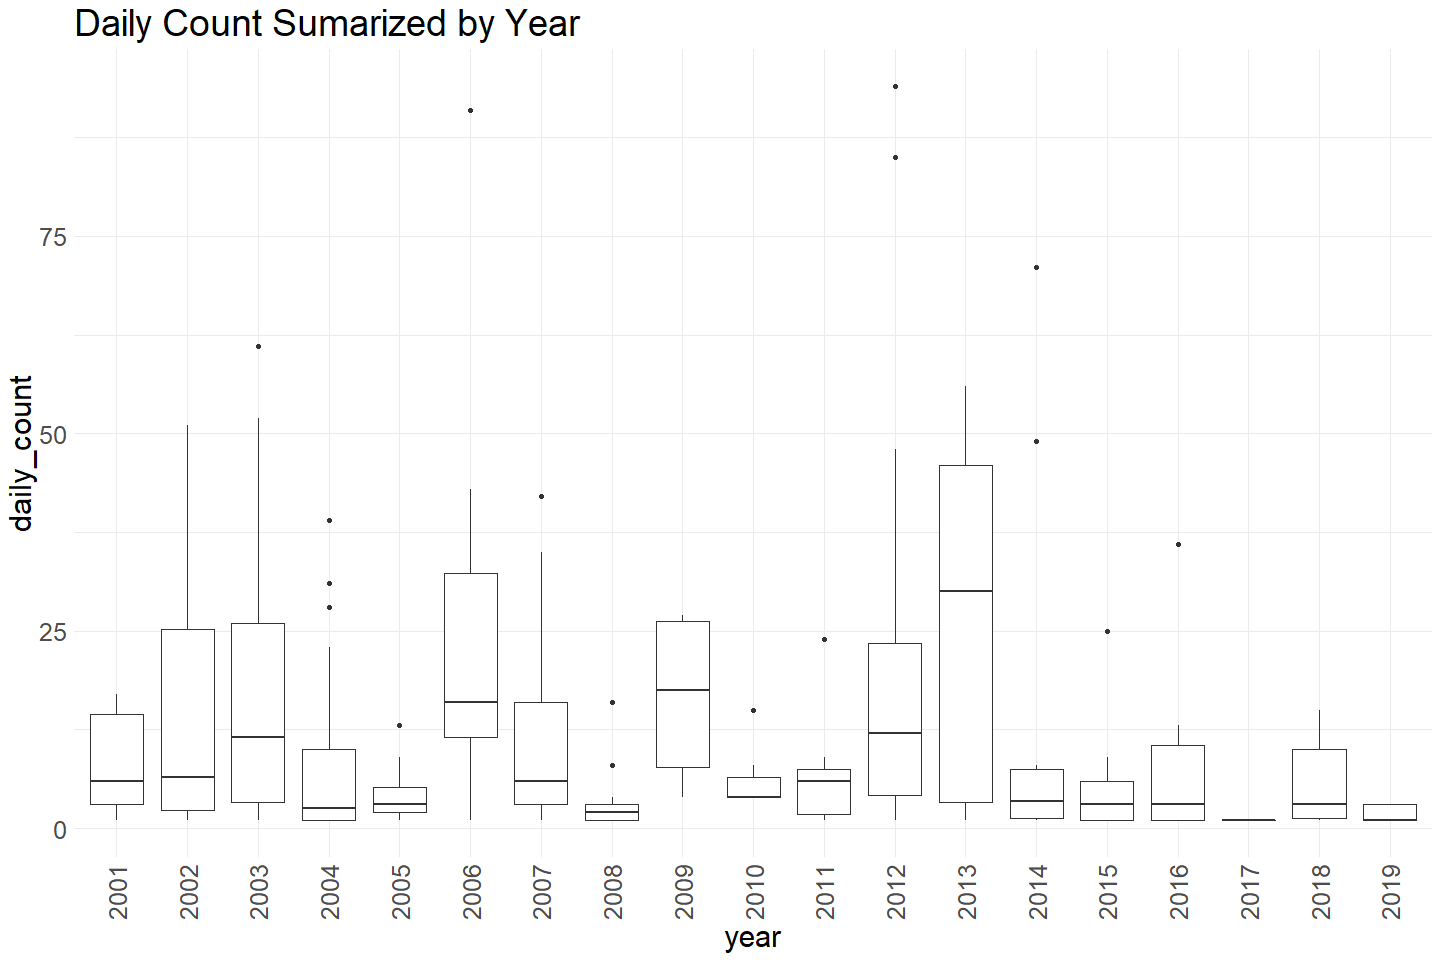
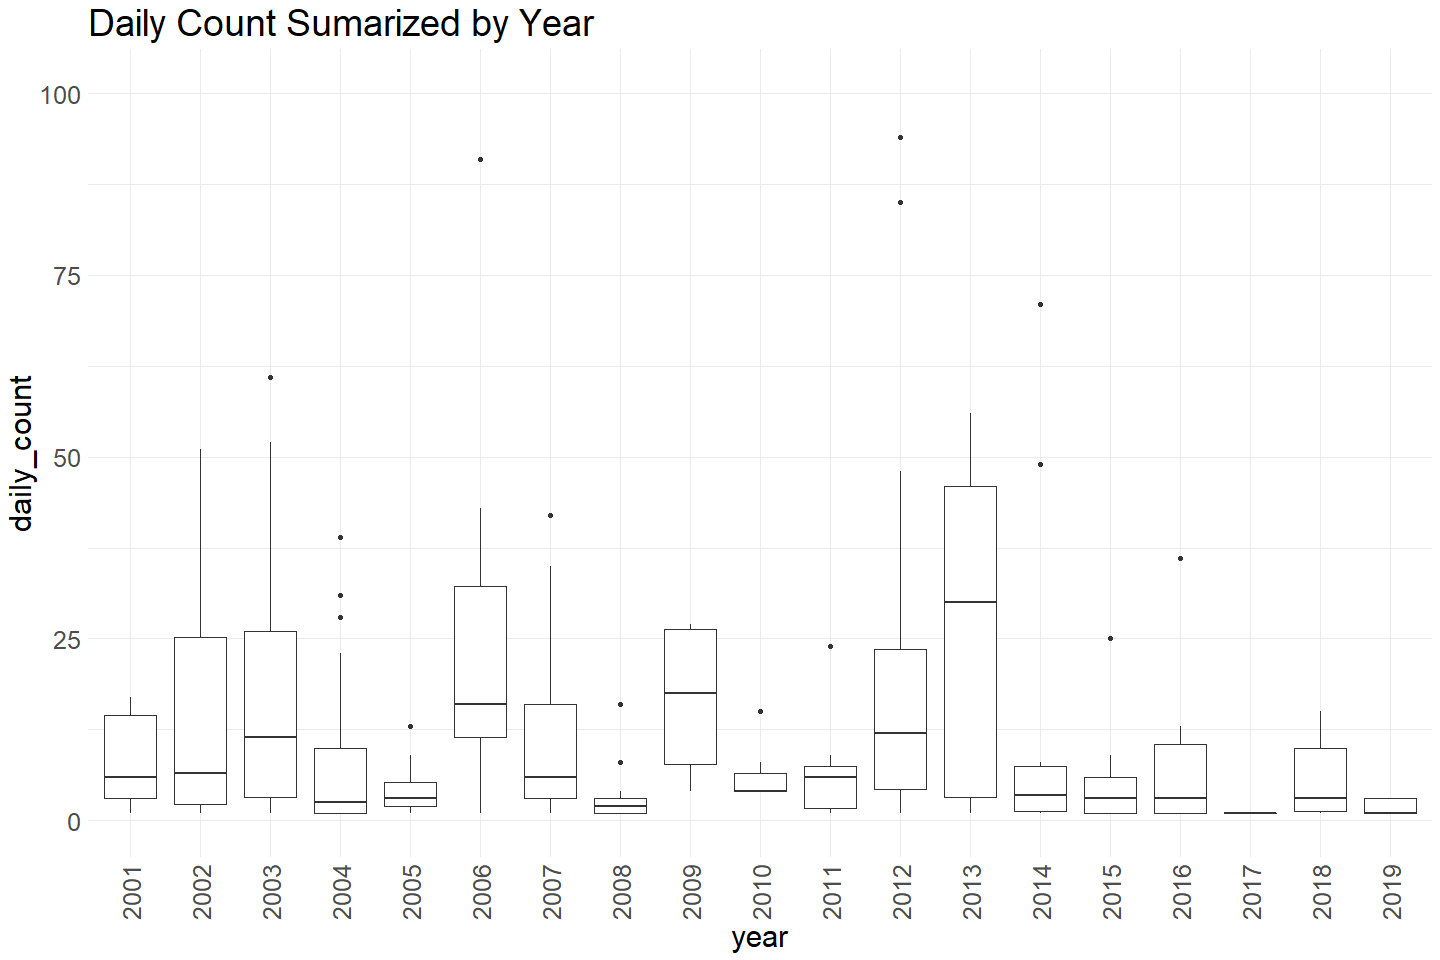
Edits based on comments in PR

diff --git a/scripts/adult-holding-redd-and-carcass-surveys/battle/battle_holding_survey_qc.md b/scripts/adult-holding-redd-and-carcass-surveys/battle/battle_holding_survey_qc.md
@@ -199,7 +199,8 @@ cleaner_holding_data %>%
   theme_minimal() +
   labs(title = "Daily Count Sumarized by Year") + 
   theme(text = element_text(size = 23),
-        axis.text.x = element_text(angle = 90, vjust = 0.5, hjust=1))  
+        axis.text.x = element_text(angle = 90, vjust = 0.5, hjust=1))   + 
+  scale_y_continuous(limits = c(0, 101))
 ```
 
 ![](battle_holding_survey_qc_files/figure-gfm/unnamed-chunk-10-1.png)<!-- -->
@@ -250,7 +251,7 @@ cleaner_holding_data %>% group_by(date) %>%
 
 **Plotting distribution of jacks**
 
-number of jacks seen
+Number of jacks seen
 
 ``` r
 cleaner_holding_data %>% 
@@ -262,7 +263,7 @@ cleaner_holding_data %>%
 
 ![](battle_holding_survey_qc_files/figure-gfm/unnamed-chunk-13-1.png)<!-- -->
 
-most of the jacks are 0
+Most of the jacks are 0
 
 **Numeric Summary of jacks over Period of Record**
 
@@ -286,6 +287,8 @@ cleaner_holding_data %>% select_if(is.character) %>% colnames()
     ## [1] "reach" "notes"
 
 ### Variable: `reach`
+
+The stream section
 
 ``` r
 table(cleaner_holding_data$reach) 
